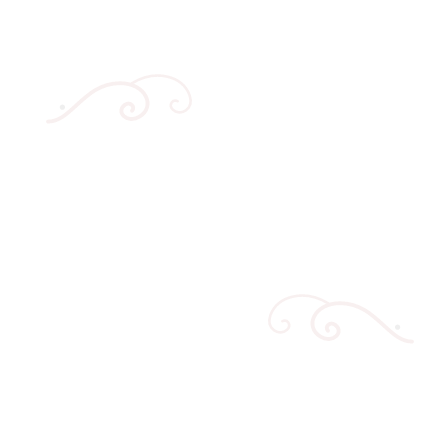
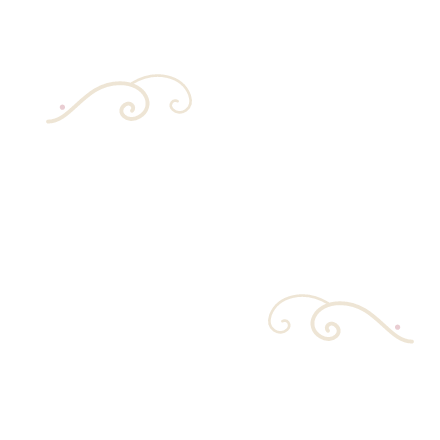
朱金漆 palette for 楚辞 week, new 一日一诗 seal, website as a patterned paper sheet following the week's look
Claude-Session: https://claude.ai/code/session_01EmmQ3f6VXZFaQTB8p26kF5

diff --git a/app/globals.css b/app/globals.css
@@ -9,6 +9,7 @@
   --line: #D9DFCF;
   --seal: #A8432F;
   --wash: rgba(150, 178, 138, 0.28);
+  --tile: none; --band: none; --mark: none; --divider: none; --seal-img: url(/seal/zhuqing.png); --gold: #4F7448;
   --font: "LXGW WenKai", "Kaiti SC", "STKaiti", "KaiTi", "Songti SC", serif;
   --ui: system-ui, -apple-system, "PingFang SC", "Microsoft YaHei", sans-serif;
 }
@@ -26,6 +27,7 @@ body {
   background:
     radial-gradient(ellipse 55% 40% at 88% 6%, var(--wash), transparent 70%),
     radial-gradient(ellipse 45% 35% at 6% 96%, var(--wash), transparent 70%),
+    var(--tile) repeat 0 0 / 220px auto,
     var(--page);
   background-attachment: fixed;
   color: var(--ink);
@@ -34,30 +36,44 @@ body {
   line-height: 1.85;
 }
 a { color: var(--bamboo); }
-.wrap {
-  max-width: 640px; margin: 0 auto;
-  padding-block: 56px 40px;
-  padding-left: max(18px, env(safe-area-inset-left, 0px));
-  padding-right: max(18px, env(safe-area-inset-right, 0px));
+/* The page is one sheet of paper laid on the week's ground, like the emails. */
+.shell {
+  padding-block: 36px 48px;
+  padding-left: max(12px, env(safe-area-inset-left, 0px));
+  padding-right: max(12px, env(safe-area-inset-right, 0px));
 }
+.wrap {
+  max-width: 680px; margin: 0 auto; position: relative;
+  background: var(--paper); border: 1px solid var(--line); border-radius: 8px;
+  box-shadow: 0 1px 2px rgba(0,0,0,.06), 0 18px 50px -24px rgba(0,0,0,.35);
+  padding: 0 clamp(20px, 5vw, 44px) 36px; overflow: hidden;
+}
+.wrap::before {
+  content: ""; display: block; height: var(--band-h, 8px);
+  margin: 0 calc(-1 * clamp(20px, 5vw, 44px));
+  background: var(--band) center / 600px 64px repeat-x, var(--band-bg, var(--bamboo));
+}
+.wrap > :first-child { margin-top: 34px; }
+.ornament { height: 14px; margin: 34px auto 0; width: 150px; background: var(--divider) center / 150px 14px no-repeat; }
+.motif-note { margin: 14px 0 0; font-size: 12px; color: var(--muted); line-height: 1.7; }
 .seal {
-  display: inline-grid; place-items: center; width: 52px; height: 52px;
-  border: 2.5px solid var(--seal); color: var(--seal); border-radius: 5px;
-  font-weight: bold; font-size: 15px; transform: rotate(-4deg); flex: none;
+  display: block; width: 58px; height: 58px; flex: none; transform: rotate(-4deg);
+  background: var(--seal-img) center / contain no-repeat;
 }
 .mast { display: flex; align-items: center; gap: 18px; }
 .mast h1 { margin: 0; font-size: 46px; letter-spacing: 8px; line-height: 1.2; font-weight: normal; }
 .tagline { margin: 22px 0 0; color: var(--muted); font-size: 16px; text-wrap: balance; }
 .card {
-  background: var(--paper); border: 1px solid var(--line); border-radius: 6px;
-  padding: 26px 24px; margin-top: 34px;
+  background: var(--soft) var(--mark) right -10px bottom -18px / 170px auto no-repeat;
+  border: 1px solid var(--line); border-top: 2px solid var(--gold); border-radius: 6px;
+  padding: 26px 24px; margin-top: 30px;
 }
 .card h2 { margin: 0 0 6px; font-size: 21px; font-weight: normal; }
 .card p { margin: 0 0 16px; color: var(--muted); font-size: 15px; }
 form.sub { display: flex; gap: 10px; flex-wrap: wrap; }
 form.sub input[type=email] {
   flex: 1 1 220px; min-width: 0; font: 16px var(--ui); padding: 11px 13px;
-  border: 1px solid var(--line); border-radius: 4px; background: var(--page); color: var(--ink);
+  border: 1px solid var(--line); border-radius: 4px; background: var(--paper); color: var(--ink);
 }
 .btn {
   font: 16px var(--font); padding: 10px 22px; border-radius: 4px; cursor: pointer;
@@ -70,10 +86,10 @@ input:focus-visible, .btn:focus-visible, button:focus-visible, a:focus-visible {
 .msg.err { color: var(--seal) !important; }
 .hp { position: absolute; left: -9999px; width: 1px; height: 1px; overflow: hidden; }
 .what { margin: 30px 0 0; display: grid; gap: 10px; color: var(--muted); font-size: 15px; }
-.what b { color: var(--ink); font-weight: normal; }
+.what b { color: var(--bamboo); font-weight: normal; letter-spacing: 1px; }
 .archive-row { margin-top: 34px; display: flex; align-items: center; justify-content: space-between; gap: 12px; flex-wrap: wrap; border-top: 1px solid var(--line); padding-top: 22px; }
 .archive-row span { color: var(--muted); font-size: 15px; }
-footer { margin-top: 48px; display: flex; gap: 18px; flex-wrap: wrap; font-size: 14px; color: var(--muted); }
+footer { margin-top: 40px; padding-top: 18px; border-top: 1px solid var(--line); display: flex; gap: 18px; flex-wrap: wrap; font-size: 14px; color: var(--muted); }
 footer a { color: var(--muted); }
 
 /* Archive calendar */
@@ -95,5 +111,9 @@ a.day::after { content: "★"; position: absolute; top: 1px; right: 4px; font-si
 .prose h2 { font-size: 20px; font-weight: normal; color: var(--bamboo); margin: 28px 0 6px; }
 .prose p, .prose li { color: var(--ink); }
 .back { font-size: 15px; }
-.issue-frame { margin: 0 calc(-1 * max(18px, env(safe-area-inset-left, 0px))); }
+.wrap.bare { background: none; border: 0; box-shadow: none; padding: 0; max-width: 640px; overflow: visible; }
+.wrap.bare::before { display: none; }
+.wrap.bare > :first-child { margin-top: 0; }
+.wrap.bare .back a { display: inline-block; background: var(--paper); border: 1px solid var(--line); border-radius: 4px; padding: 2px 12px; }
+.issue-frame { margin: 0 -12px; }
 @media (prefers-reduced-motion: reduce) { * { transition: none !important; } }

diff --git a/app/page.js b/app/page.js
@@ -1,6 +1,7 @@
 import SignupForm from "./SignupForm";
 import ArchiveCalendar from "./ArchiveCalendar";
-import { SITE, getPublishedDates } from "../lib/server.mjs";
+import { SITE, getPublishedDates, getCurrentPalette } from "../lib/server.mjs";
+import { motifNote } from "../lib/palettes.mjs";
 
 export const revalidate = 300;
 
@@ -9,11 +10,12 @@ async function safeDates() {
 }
 
 export default async function Home() {
-  const dates = await safeDates();
+  const [dates, palette] = await Promise.all([safeDates(), getCurrentPalette()]);
+  const note = motifNote(palette);
   return (
     <main className="wrap">
       <div className="mast">
-        <span className="seal">z.y.</span>
+        <span className="seal" role="img" aria-label="一日一诗印"></span>
         <h1>{SITE.name}</h1>
       </div>
       <p className="tagline">{SITE.tagline}</p>
@@ -24,12 +26,14 @@ export default async function Home() {
         <SignupForm />
       </section>
 
+      <div className="ornament" aria-hidden="true" />
       <div className="what">
         <div><b>每天</b>　一个进阶成语，附释义、生活用法与出处；一首诗，附难字注释、赏析和背后的历史。</div>
         <div><b>每周一</b>　一封导读，介绍这一周的时代与主题。</div>
         <div><b>十二周</b>　从《诗经》《楚辞》一路读到唐宋元明清。</div>
       </div>
 
+      <div className="ornament" aria-hidden="true" />
       <div id="archive">
         <ArchiveCalendar dates={dates} />
       </div>
@@ -39,6 +43,7 @@ export default async function Home() {
         <a href="/privacy">隐私声明</a>
         {SITE.contact ? <span>联系：<span style={{ userSelect: "all" }}>{SITE.contact}</span></span> : <span>联系方式即将公布</span>}
       </footer>
+      {note ? <p className="motif-note">{note}</p> : null}
     </main>
   );
 }

diff --git a/app/archive/[date]/page.js b/app/archive/[date]/page.js
@@ -17,7 +17,7 @@ export default async function ArchiveDay({ params }) {
   if (!issue) notFound();
   const { body } = renderIssue(issue, { siteUrl: SITE.url, mode: "web" });
   return (
-    <main className="wrap" style={{ paddingTop: 24 }}>
+    <main className="wrap bare">
       <style dangerouslySetInnerHTML={{ __html: paletteCss(issue.palette) }} />
       <p className="back"><a href="/#archive">← 回到往期回顾</a></p>
       <div className="issue-frame" dangerouslySetInnerHTML={{ __html: body }} />

diff --git a/app/layout.js b/app/layout.js
@@ -29,7 +29,7 @@ export default async function RootLayout({ children }) {
   return (
     <html lang="zh-CN">
       <head><style id="week-palette" dangerouslySetInnerHTML={{ __html: paletteCss(name) }} /></head>
-      <body>{children}</body>
+      <body><div className="shell">{children}</div></body>
     </html>
   );
 }
